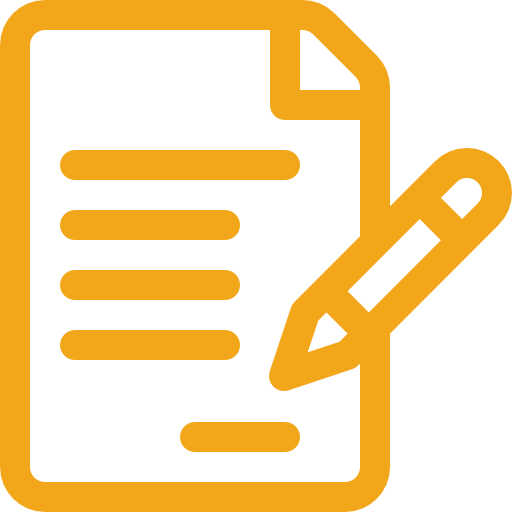
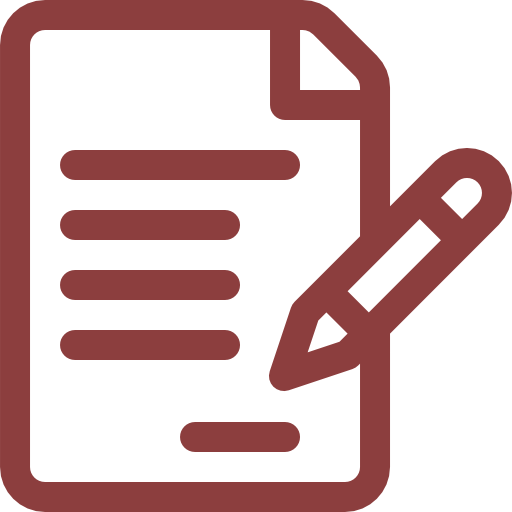
mudanças estéticas - esquema de cores e background

diff --git a/style.css b/style.css
@@ -10,15 +10,15 @@ body.inicio {
 }
 
 div.imagem{
-    background-image: url(./images/c6f343116012399.6059c4688e3da.jpg);
-    background-position: center;
+    background-image: url(./images/b8f8b7128481505.6156e2ab5c122.jpg);
+    background-position: top;
     background-size: cover;
     width: 50vw;
     height: 100vh;
 }
 
 div.formulario{
-    background-color: #F1F2D5;
+    background-color: #F2F2F2;
     width: 50vw;
     height: 100vh;
     text-align: center;
@@ -34,7 +34,7 @@ div.conteudo{
 
 h1.titulo{
     font-weight: 400;
-    color: #011F26;
+    color: #260101;
     font-size: 20px;
 }
 
@@ -46,7 +46,7 @@ div.user-password{
 }
 
 .user{
-    background-color: #F1F2D5;
+    background-color: #F2F2F2;
     height: 40px;
     width: 20vw;
     border: 1px solid rgba(165, 165, 145, 1);
@@ -59,7 +59,7 @@ div.user-password{
 }
 
 .password{
-    background-color: #F1F2D5;
+    background-color: #F2F2F2;
     height: 40px;
     width: 20vw;
     border: 1px solid rgba(165, 165, 145, 1);
@@ -96,7 +96,7 @@ button.entrar .circle {
     margin: 0;
     width: 3rem;
     height: 3rem;
-    background: #011F26;
+    background: #260101;
     border-radius: 1.625rem;
    }
    
@@ -106,7 +106,7 @@ button.entrar .circle .icon {
     top: 0;
     bottom: 0;
     margin: auto;
-    background: #F1F2D5;
+    background: #F2F2F2;
    }
    
 button.entrar .circle .icon.arrow {
@@ -124,8 +124,8 @@ button.entrar .circle .icon.arrow::before {
     right: 0.0625rem;
     width: 0.625rem;
     height: 0.625rem;
-    border-top: 0.125rem solid #F1F2D5;
-    border-right: 0.125rem solid #F1F2D5;
+    border-top: 0.125rem solid #F2F2F2;
+    border-right: 0.125rem solid #F2F2F2;
     transform: rotate(45deg);
    }
    
@@ -138,7 +138,7 @@ button.entrar .button-text {
     bottom: 0;
     padding: 0.75rem 39%;
     margin: 0 0 0 1.85rem;
-    color: #011F26;
+    color: #260101;
     font-weight: 700;
     line-height: 1.6;
     text-align: left;
@@ -150,17 +150,17 @@ button.entrar:hover .circle {
    }
    
 button.entrar:hover .circle .icon.arrow {
-    background: #F1F2D5;
+    background: #F2F2F2;
     transform: translate(1rem, 0);
    }
    
 button.entrar:hover .button-text {
-    color: #F1F2D5;
+    color: #F2F2F2;
    }
 
 a.conta {
     text-decoration: none;
-    color: #011F26;
+    color: #260101;
     position: relative;
 }
 
@@ -168,7 +168,7 @@ a.conta::after{
     content: " ";
     width: 100%;
     height: 2px;
-    background-color: rgba(242, 166, 26, 1);
+    background-color: #A66832;
     border-radius: 4px;
     position: absolute;
     left: 0;
@@ -207,7 +207,7 @@ button.criar-conta .circle {
     margin: 0;
     width: 3rem;
     height: 3rem;
-    background: #011F26;
+    background: #260101;
     border-radius: 1.625rem;
    }
    
@@ -217,7 +217,7 @@ button.criar-conta .circle .icon {
     top: 0;
     bottom: 0;
     margin: auto;
-    background: #F1F2D5;
+    background: #F2F2F2;
    }
    
 button.criar-conta .circle .icon.arrow {
@@ -235,8 +235,8 @@ button.criar-conta .circle .icon.arrow::before {
     right: 0.0625rem;
     width: 0.625rem;
     height: 0.625rem;
-    border-top: 0.125rem solid #F1F2D5;
-    border-right: 0.125rem solid #F1F2D5;
+    border-top: 0.125rem solid #F2F2F2;
+    border-right: 0.125rem solid #F2F2F2;
     transform: rotate(45deg);
    }
    
@@ -249,7 +249,7 @@ button.criar-conta .button-text {
     bottom: 0;
     padding: 0.75rem 30%;
     margin: 0 0 0 1.85rem;
-    color: #011F26;
+    color: #260101;
     font-weight: 700;
     line-height: 1.6;
     text-align: left;
@@ -261,12 +261,12 @@ button.criar-conta:hover .circle {
    }
    
 button.criar-conta:hover .circle .icon.arrow {
-    background: #F1F2D5;
+    background: #F2F2F2;
     transform: translate(1rem, 0);
    }
    
 button.criar-conta:hover .button-text {
-    color: #F1F2D5;
+    color: #F2F2F2;
    }
 
 div.forms{
@@ -277,7 +277,7 @@ div.forms{
 }
 
 .user-pass{
-    background-color: #F1F2D5;
+    background-color: #F2F2F2;
     height: 40px;
     width: 25vw;
     border: 1px solid rgba(165, 165, 145, 1);
@@ -293,12 +293,12 @@ body.inicio-2 {
     height: 100vh;
     width: 100vw;
     margin: 0;
-    background-color: #F1F2D5;
+    background-color: #F2F2F2;
 }
 
 h1.titulo-2{
     font-weight: 700;
-    color: #011F26;
+    color: #260101;
     font-size: 25px;
     margin: 0;
     padding-left: 1.5vw;
@@ -314,7 +314,7 @@ div.criar-recado{
 }
 
 input.descricao{
-    background-color: #F1F2D5;
+    background-color: #F2F2F2;
     height: 40px;
     width: 25vw;
     border: 1px solid rgba(165, 165, 145, 1);
@@ -331,7 +331,7 @@ div.descricao{
 }
 
 input.detalhamento{
-    background-color: #F1F2D5;
+    background-color: #F2F2F2;
     height: 40px;
     width: 57vw;
     border: 1px solid rgba(165, 165, 145, 1);
@@ -344,16 +344,16 @@ input.detalhamento{
 }
 
 input.salvar{
-    background-color: #025E73;
+    background-color: #8C3E3E;
     height: 44px;
     width: 10vw;
     border: none;
-    color: #F1F2D5;
+    color: rgb(31, 31, 31);
     padding-left: 10px;
     margin-left: -1vw;
     margin-right: -3vw;
     font-family: 'Montserrat', sans-serif;
-    font-weight: 200;
+    font-weight: 500;
     border-top-right-radius: 21px;
     border-bottom-right-radius: 21px;
     cursor: pointer;
@@ -366,12 +366,14 @@ table.recados{
     margin-left: 1.5vw;
     margin-right: 1.5vw;
     height: 79vh;
+    color: rgb(31, 31, 31);
 }
 
 th{
     border-top: 1px solid rgba(165, 165, 145, 1);
     border-bottom: 1px solid rgba(165, 165, 145, 1);
     text-align: left;
+    color: #260101;
 }
 
 tr{
@@ -392,12 +394,40 @@ tr{
 
 .coluna4{
     width: 20vw;
+    display: flexbox;
 }
 
 input:focus{
-    border: 1px solid rgba(242, 166, 26, 1);
-        -webkit-box-shadow: 0px 0px 5px rgba(242, 166, 26, 0.75);
-        -moz-box-shadow: 0px 0px 5px rgba(242, 166, 26, 0.75);
-        box-shadow: 0px 0px 5px rgba(242, 166, 26, 0.75);
+    border: 1px solid #A66832;
+        -webkit-box-shadow: 0px 0px 5px rgba(166, 104, 50, 0.75);
+        -moz-box-shadow: 0px 0px 5px rgba(166, 104, 50, 0.75);
+        box-shadow: 0px 0px 5px rgba(166, 104, 50, 0.75);
     outline-style: none;
+}
+
+input.apagar{
+    background-color: #591616;
+    height: 26px;
+    width: 5vw;
+    border: none;
+    color: #F2F2F2;
+    padding: 0;
+    font-family: 'Montserrat', sans-serif;
+    font-weight: 500;
+    border-radius: 13px;
+    cursor: pointer;
+}
+
+input.editar{
+    background-color: #A66832;
+    height: 26px;
+    width: 5vw;
+    border: none;
+    color: #F2F2F2;
+    padding: 0;
+    font-family: 'Montserrat', sans-serif;
+    font-weight: 500;
+    border-radius: 13px;
+    cursor: pointer;
+    margin-left: 5px;
 }

diff --git a/meus-recados.html b/meus-recados.html
@@ -44,15 +44,21 @@
           <th class="coluna4">Ação</th>
         </tr>
         <tr>
-          <td class="coluna1"></td>
-          <td class="coluna2"></td>
-          <td class="coluna3"></td>
-          <td class="coluna4"></td>
+          <td class="coluna1">1</td>
+          <td class="coluna2">Teste</td>
+          <td class="coluna3">Teste teste teste</td>
+          <td class="coluna4">
+            <input class="apagar" type="button" value="Apagar" /><input
+              class="editar"
+              type="button"
+              value="Editar"
+            />
+          </td>
         </tr>
         <tr>
-          <td class="coluna1"></td>
-          <td class="coluna2"></td>
-          <td class="coluna3"></td>
+          <td class="coluna1">2</td>
+          <td class="coluna2">Teste</td>
+          <td class="coluna3">Teste teste teste</td>
           <td class="coluna4"></td>
         </tr>
         <tr>
